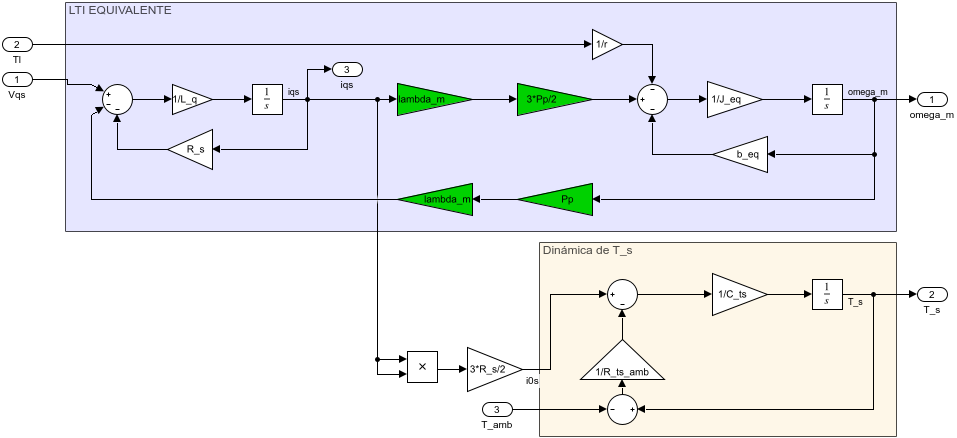
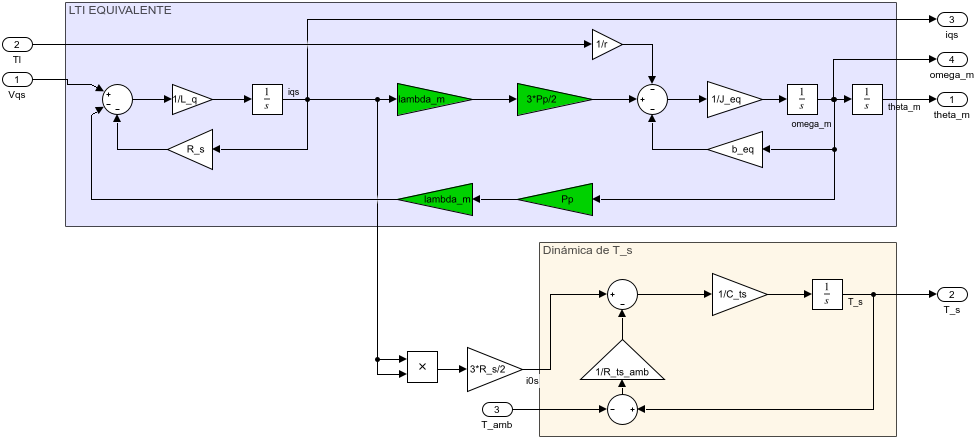
corrección del LTI integrador puro a la salida

diff --git a/Proyecto/Simulacion_PMSM/Modelo_linealizado.m b/Proyecto/Simulacion_PMSM/Modelo_linealizado.m
@@ -51,7 +51,7 @@ L_d         = 6.6/1000;
 L_ls        = 0.8/1000;
 
 alpha_cu    = 3.9e-3;
-%R_s         = 1.02;
+R_s         = 1.02;
 T_sref      = 40;
 R_sref      = 1.02;
 
@@ -153,7 +153,7 @@ for i = 1:length(i_max)
     end
 end
 %}
-
+%{
 figure;
 hold on; % Mantener la gráfica para añadir el segmento de recta
 grid on; % Mostrar cuadrícula
